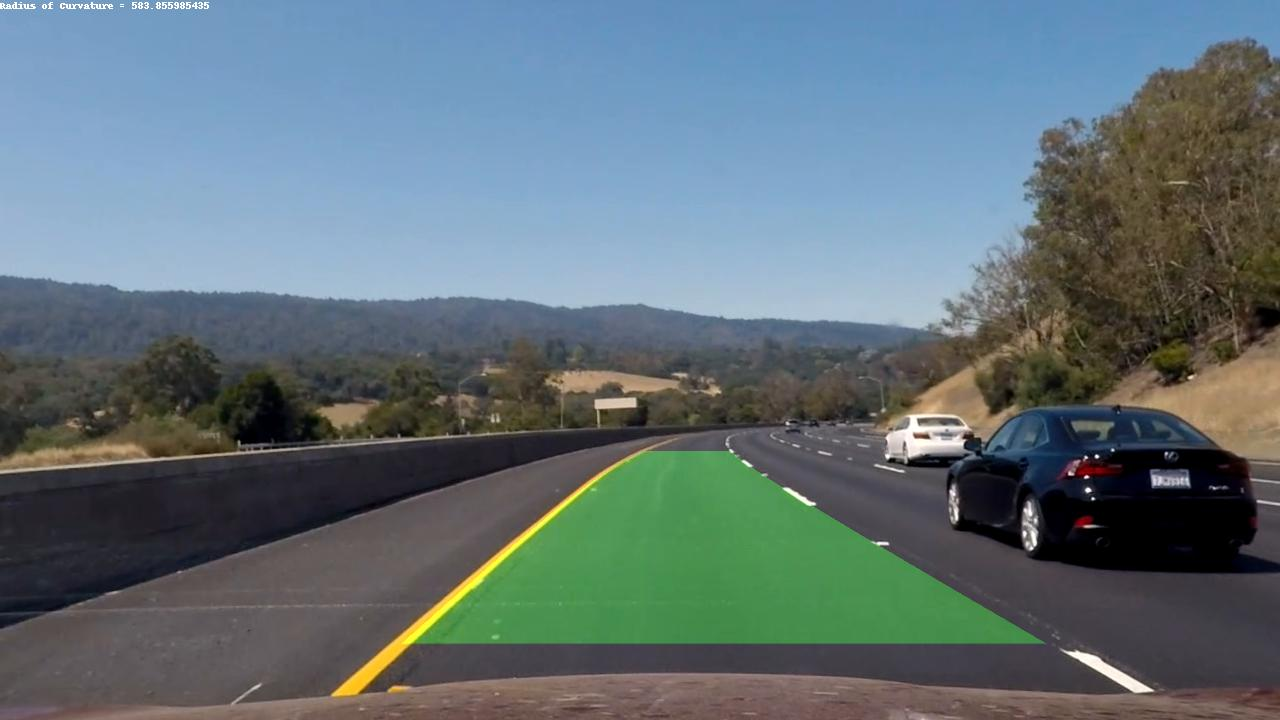
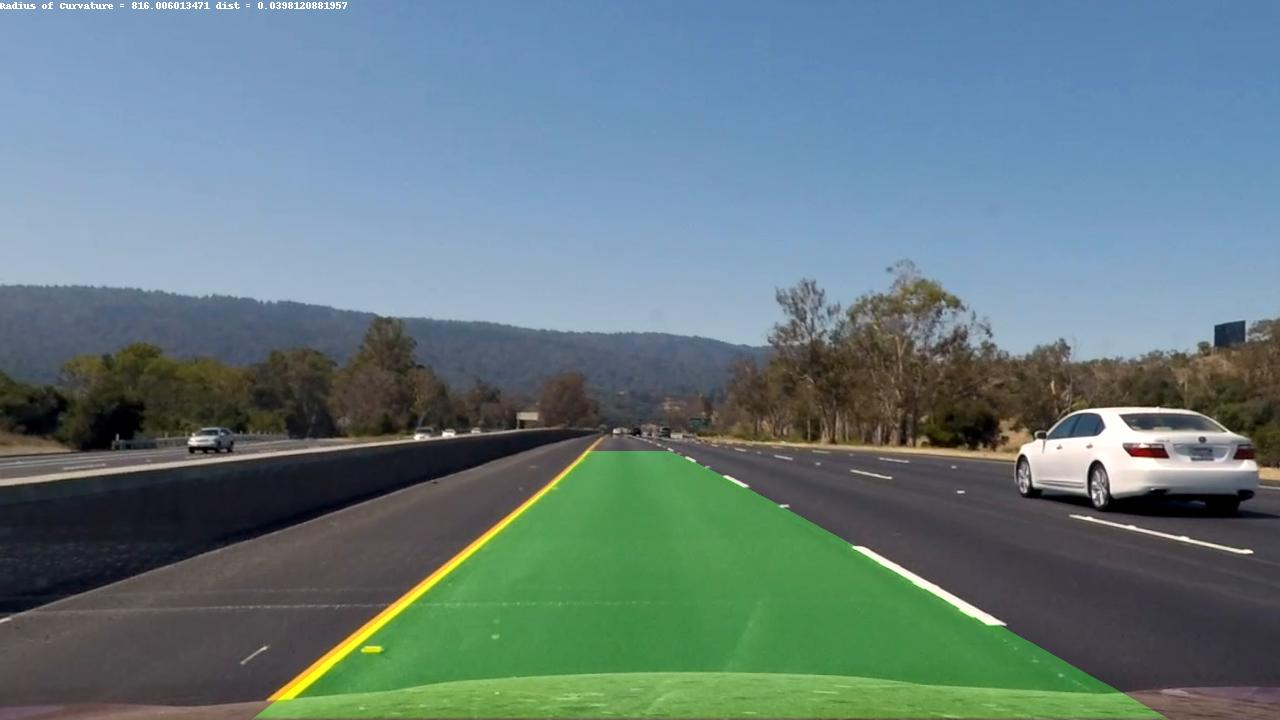
final working project with writeup

diff --git a/src/main.py b/src/main.py
@@ -8,8 +8,9 @@ import src.sliding_window as sw
 import src.existing_line_search as els
 from src.line import Line
 import src.img_projector as img_pr
-from PIL import Image
-from PIL import ImageDraw
+
+
+import src.calc_curvature as cvr
 
 # define Video File to use
 VIDEO_PATH = '../project_video.mp4'
@@ -30,13 +31,13 @@ def process_image(img):
 
     # define undistortion points to use
     src_pt = np.float32([[img_size[1]*7/16, img_size[0]*2/3],
-                         [img_size[1]*10/16, img_size[0]*2/3],
+                         [img_size[1]*79/128, img_size[0]*2/3],
                          [img_size[1]*15/16, img_size[0]],
-                         [img_size[1]*3/16, img_size[0]]])
+                         [img_size[1]*247/1280, img_size[0]]])
 
     dst_pt = np.float32([[img_size[1]*7/32, img_size[0]*5/9],
                          [img_size[1]*15/16, img_size[0]*5/9],
-                         [img_size[1]*25/32, img_size[0]],
+                         [img_size[1]*105/128, img_size[0]],
                          [img_size[1]*7/32, img_size[0]]])
 
     # transforming the image to top down view
@@ -62,29 +63,15 @@ def process_image(img):
     result = img_pr.project_back(img, undist, warped, Minv, lline.bestx, rline.bestx, ploty)
 
     mean_rad = (abs(lline.radius_of_curvature) + abs(rline.radius_of_curvature))/2
+    car_dist = cvr.cal_dist(left_fitx[-1], right_fitx[-1], img_size[1])
 
-    image_result = Image.fromarray(result)
-    draw = ImageDraw.Draw(image_result)
-    draw.text((0, 0), "Radius of Curvature = " + str(mean_rad), (255, 255, 255))
-    image_result.save('sample-out.jpg')
+    # update lines distances
+    lline.line_base_pos =  car_dist
+    rline.line_base_pos = car_dist
+    lline.radius_of_curvature = mean_rad
+    rline.radius_of_curvature = mean_rad
 
     return result
-
-import matplotlib.pyplot as plt
-import matplotlib.image as mpimg
-
-TEST_IMG_PATH = '../test_images/test3.jpg'
-#TEST_IMG_PATH = '../camera_cal/calibration1.jpg'
-
-def test_print(before_img, after_img):
-    f, (ax1, ax2) = plt.subplots(1, 2, figsize=(24, 9))
-    f.tight_layout()
-    ax1.imshow(before_img)
-    ax1.set_title('Original Image', fontsize=50)
-    ax2.imshow(after_img, cmap='gray')
-    ax2.set_title('Undistorted Image', fontsize=50)
-    plt.subplots_adjust(left=0., right=1, top=0.9, bottom=0.)
-    plt.show()
 
 def main():
     """
@@ -92,14 +79,10 @@ def main():
     :return:
     """
     # detect lanes in the video file
-    #white_output = VIDEO_OUTPUT
-    #clip1 = VideoFileClip(VIDEO_PATH)
-    #white_clip = clip1.fl_image(process_image)
-    #white_clip.write_videofile(white_output, audio=False)
-
-    img = mpimg.imread(TEST_IMG_PATH)
-    process_image(img)
-
+    white_output = VIDEO_OUTPUT
+    clip1 = VideoFileClip(VIDEO_PATH)
+    white_clip = clip1.fl_image(process_image)
+    white_clip.write_videofile(white_output, audio=False)
 
 if __name__ == '__main__':
     # initialize camera undistortion

diff --git a/src/calc_curvature.py b/src/calc_curvature.py
@@ -14,3 +14,13 @@ def cal_rad(fitx, ploty):
     curverad = ((1 + (2*left_fit_cr[0]*y_eval*ym_per_pix + left_fit_cr[1])**2)**1.5) / np.absolute(2*left_fit_cr[0])
 
     return curverad
+
+def cal_dist(lfitx, rfitx, img_width):
+    # Define conversions in x and y from pixels space to meters
+    xm_per_pix = 3.7 / 700  # meters per pixel in x dimension
+
+    img_middlex = img_width/2
+    car_posx = abs(rfitx - lfitx)/2 + lfitx
+    dist = abs(img_middlex - car_posx)
+    dist_m = dist * xm_per_pix
+    return dist_m

diff --git a/src/line.py b/src/line.py
@@ -1,5 +1,5 @@
 import numpy as np
-import src.test_curvature as crv
+import src.calc_curvature as crv
 
 # history size in frames
 N = 10

diff --git a/writeup.md b/writeup.md
@@ -19,10 +19,10 @@ The goals / steps of this project are the following:
 [image1]: ./output_images/camera_cali.png "Undistorted"
 [image2]: ./output_images/test_undistort.png "Road Transformed"
 [image3]: ./output_images/binary.png "Binary Example"
-[image4]: ./examples/warped_straight_lines.jpg "Warp Example"
+[image4]: ./output_images/lane_warping.png "Warp Example"
 [image5]: ./output_images/line_fit.jpg "Fit Visual"
 [image6]: ./output_images/back_projected.jpg "Output"
-[video1]: ./project_video.mp4 "Video"
+[video1]: ./output_images/final_output.mp4 "Video"
 
 ## [Rubric](https://review.udacity.com/#!/rubrics/571/view) Points
 ---
@@ -67,13 +67,13 @@ as well as the transformation matrix and the size of the image.  I chose the har
 
 ```python
 src_pt = np.float32([[img_size[1]*7/16, img_size[0]*2/3],
-                     [img_size[1]*10/16, img_size[0]*2/3],
+                     [img_size[1]*79/128, img_size[0]*2/3],
                      [img_size[1]*15/16, img_size[0]],
-                     [img_size[1]*3/16, img_size[0]]])
+                     [img_size[1]*247/1280, img_size[0]]])
 
 dst_pt = np.float32([[img_size[1]*7/32, img_size[0]*5/9],
                      [img_size[1]*15/16, img_size[0]*5/9],
-                     [img_size[1]*25/32, img_size[0]],
+                     [img_size[1]*105/128, img_size[0]],
                      [img_size[1]*7/32, img_size[0]]])
 ```
 
@@ -82,13 +82,13 @@ This resulted in the following source and destination points:
 | Source        | Destination   | 
 |:-------------:|:-------------:| 
 | 560, 480      | 280, 400        | 
-| 800, 480      | 1200, 400      |
-| 1200, 720     | 1000, 720      |
-| 240, 720      | 280, 720        |
+| 791, 480      | 1200, 400      |
+| 1200, 720     | 1050, 720      |
+| 247, 720      | 280, 720        |
 
 I verified that my perspective transform was working as expected by drawing the `src` and `dst` points onto a 
 test image and its warped counterpart to verify that the lines appear parallel in the warped image.
-TODO
+
 ![alt text][image4]
 
 Then I use a sanity check to see if the lanes were found in the last time step. The ckeck is done in line
@@ -107,9 +107,17 @@ So the fittet lines look like this:
 
 ![alt text][image5]
 
-#### Describe how (and identify where in your code) you calculated the radius of curvature of the lane and the position of the vehicle with respect to center.
-TODO
-I did this in lines # through # in my code in `my_other_file.py`
+#### Here I describe how and where I calculated the radius of curvature of the lane and the position of the vehicle with respect to center.
+
+I calculated the line curvature in the file `calc_curvature` in lines 5 to 14. Note that I used the 
+suggested road parameters from the project preparation to transfer the pixel values to meters.
+This procedure I did for the left and right lanes and then I calculated the mean of both curvatures.
+This way I get the approximate curvature the car is actually driving.
+I did this during the update of the lines in line 61 in my code in `line.py`.
+the other function `calc_dist` in `calc_curvature.py` calculated the distance of the car from the middle of the road,
+given that the camera is exactly in the middle of the car and directly pointing ahead in a 90° angle from the lanes.
+Tha calculation is started in line 66 of the `main.py`. 
+
 
 #### Here I provide an example image of your result plotted back down onto the road such that the lane area is identified clearly.
 
@@ -127,5 +135,15 @@ Here's a [link to my video result](./output_images/final_output.mp4)
 
 #### Here I'll talk about the approach I took, what techniques I used, what worked and why, where the pipeline might fail and how I might improve it if I were going to pursue this project further.
 
-My pipeline is robust on sections of the street where 
-TODO
+My pipeline is robust on sections of the street where the lane lines are clearly visible and continuous. 
+The crutual part is the edge detection and the filtering because a very good filtered image with clear and visible
+lines is very easy to fit with a polynomial. However if there is noise in the image, the detection is much more
+difficult. And this is where my approach can be improved. On parts of the video, where the lanes are covered by
+shadowes or are indistinguishable from the rest of the road, the estimation can fail. I introduced smoothing over
+the last 10 frames to overcome short passages, where this might happen. However on longer sections this approach
+still might fail. To overcome this, one could use the knowledge about the road and it's width to further narrow
+down the search area for the other lane if one lane was found. One could consider introducing a confidence score
+for each lane, that measures, how certain the lane was tracked (for example using the standard deviation of the last
+lane parameters or similar). This score can be used to predict a lane that is uncertain. That way, is one lane was
+found very uncertain, the other lane might be used to better predict the untertain one since they are always considered
+to be parallel.
